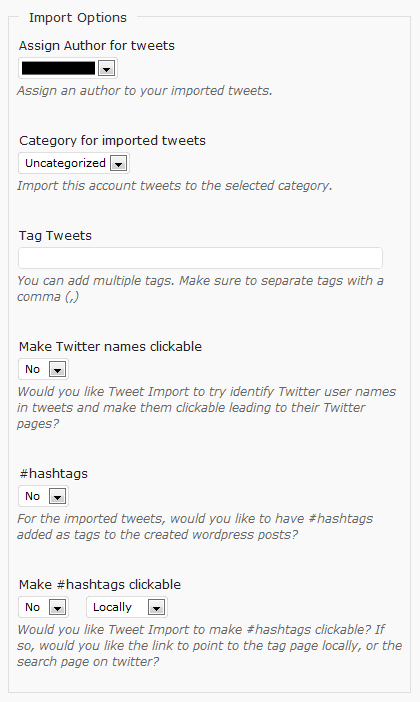
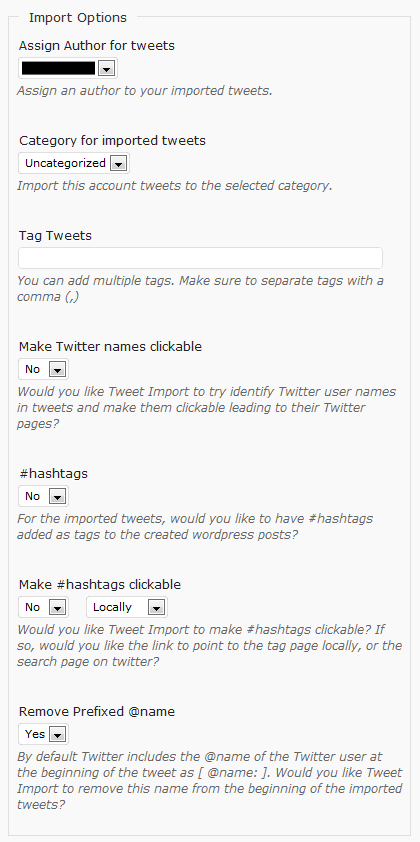
Added the option to remove the prefix @name from imported tweets
git-svn-id: https://plugins.svn.wordpress.org/tweet-import/trunk@221487 b8457f37-d9ea-0310-8a92-e5e31aec5664

Changed region(s): [[0.031, 0.3889, 0.9595, 0.9872], [0.031, 0.0, 0.7738, 0.2991], [0.031, 0.3291, 0.9286, 0.359]]

diff --git a/tweet-import.php b/tweet-import.php
@@ -3,7 +3,7 @@
 Plugin Name: Tweet Import
 Plugin URI: http://skinju.com/wordpress/tweet-import
 Description: A WordPress plugin that imports twitter posts from multiple twitter accounts, favorites, and lists to WordPress. It allows importing each account, favorite or list to different categories, and allows tagging imported tweets using the tweet content #hashtags. Requires no authentication and can be used to import the user posted tweets and retweets from the specified twitter accounts and lists.
-Version: 1.2.2
+Version: 1.2.3
 Author: Khaled Afiouni
 Author URI: http://www.afiouni.com/
 Lincense: Released under the GPL license (http://www.opensource.org/licenses/gpl-license.php)
@@ -351,7 +351,8 @@ function tweetimport_display_account_list_table()
       echo 'Tag with the tweets #hashtags as well: <strong>' . ($account['hash_tag']==1?'Yes':'No') . '</strong><br />';
       echo 'Make #hashtags clickable: <strong>' . ($account['hashtags_clickable']==1?'Yes':'No') . '</strong>, ';
       echo ' <strong>' . ($account['hashtags_clickable']==1?($account['hashtags_clickable_twitter']==1?'to twitter':'Locally'):'') . '</strong><br />';
-      echo '<p></td>';
+      echo 'Remove @name Prefix: <strong>' . ($account['strip_name']==1?'Yes':'No') . '</strong><br />';
+      echo '</p></td>';
       echo '</tr>';
       echo '<tr class="second ' . ($account['active']?'active':'inactive') . '">';
       echo '<td>&nbsp;</td>';
@@ -498,6 +499,16 @@ function tweetimport_display_account_add_edit_form($mode="add", $account_details
   echo '<p>Would you like Tweet Import to make #hashtags clickable? If so, would you like the link to point to the tag page locally, or the search page on twitter?</p>';
   echo '</div>';
 
+  echo '<div class="form-field form-required">';
+  echo '<label for="account_hashtags">Remove Prefixed @name</label>';
+  echo '<select name="strip_name" id="strip_name">';
+  if (!isset ($account_details['strip_name'])) $account_details['hash_tag'] = 0;
+  echo '<option value="0" ' . ($account_details['strip_name']!=1?'selected="selected"':'') . '>No</option>';
+  echo '<option value="1" ' . ($account_details['strip_name']==1?'selected="selected"':'') . '>Yes</option>';
+  echo '</select>';
+  echo '<p>By default Twitter includes the @name of the Twitter user at the beginning of the tweet as [ @name: ]. Would you like Tweet Import to remove this name from the beginning of the imported tweets?</p>';
+  echo '</div>';
+
   echo '</fieldset>';
 
   echo '<p class="submit">';
@@ -610,6 +621,7 @@ function tweetimport_handle_request()
         $new_account['names_clickable'] = trim($_POST['names_clickable']); 
         $new_account['hashtags_clickable'] = trim($_POST['hashtags_clickable']); 
         $new_account['hashtags_clickable_twitter'] = trim($_POST['hashtags_clickable_twitter']);
+        $new_account['strip_name'] = trim($_POST['strip_name']);
         $new_account['imported_count'] = 'No'; 
         $new_account['active'] = true; 
         $new_account['last_checked'] = '(Never)'; 
@@ -630,6 +642,7 @@ function tweetimport_handle_request()
         $new_account['names_clickable'] = trim($_POST['names_clickable']); 
         $new_account['hashtags_clickable'] = trim($_POST['hashtags_clickable']); 
         $new_account['hashtags_clickable_twitter'] = trim($_POST['hashtags_clickable_twitter']);
+        $new_account['strip_name'] = trim($_POST['strip_name']);
         $new_account['active'] = true; 
         $tweetimport_options['twitter_accounts'][$new_account_name] = array_merge ($tweetimport_options['twitter_accounts'][$new_account_name], $new_account);
         update_option ('skinju_tweet_import', $tweetimport_options);
@@ -692,6 +705,10 @@ function tweetimport_import_twitter_feed($twitter_account)
     //Get the twitter author from the beginning of the tweet text
     $twitter_author = trim(preg_replace("~^(\w+):(.*?)$~", "\\1", $processed_description));
 
+    if ($twitter_account['strip_name'] == 1):
+      $processed_description = preg_replace("~^(\w+):(.*?)~i", "\\2", $processed_description);
+    endif;
+
     if ($twitter_account['names_clickable'] == 1):
       $processed_description = preg_replace("~@(\w+)~", "<a href=\"http://www.twitter.com/\\1\" target=\"_blank\">@\\1</a>", $processed_description);
       $processed_description = preg_replace("~^(\w+):~", "<a href=\"http://www.twitter.com/\\1\" target=\"_blank\">@\\1</a>:", $processed_description);
@@ -709,7 +726,7 @@ function tweetimport_import_twitter_feed($twitter_account)
   $processed_description = preg_replace("#(^|[\n ])((www|ftp)\.[^ \"\t\n\r< ]*)#", "\\1<a href=\"http://\\2\" target=\"_blank\">\\2</a>", $processed_description);
 
     $new_post = array('post_title' => trim (substr (preg_replace("~{$account_parts[0]}: ~i", "", $item->get_title()), 0, 25) . '...'),
-                      'post_content' => trim (preg_replace("~{$account_parts[0]}: ~i", "", $processed_description)),
+                      'post_content' => trim ($processed_description),
                       'post_date' => $item->get_date('Y-m-d H:i:s'),
                       'post_author' => $twitter_account['author'],
                       'post_category' => array($twitter_account['category']),
